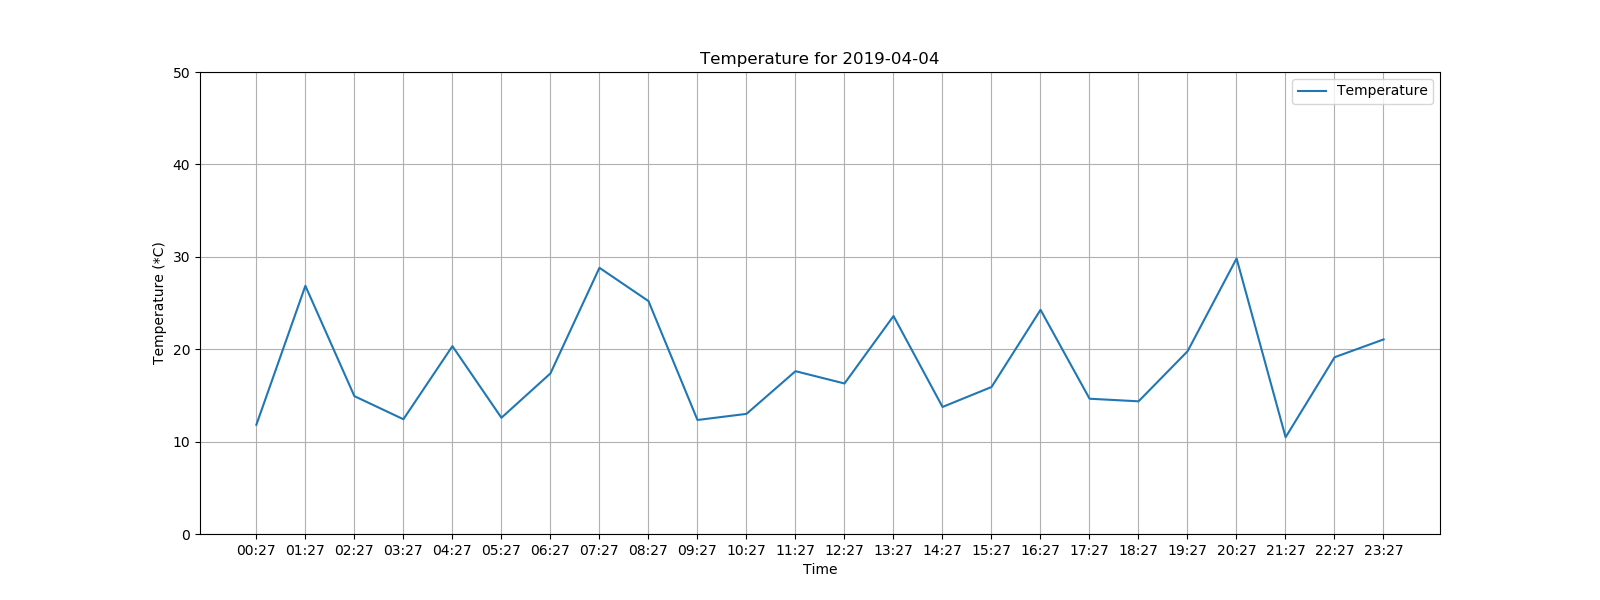
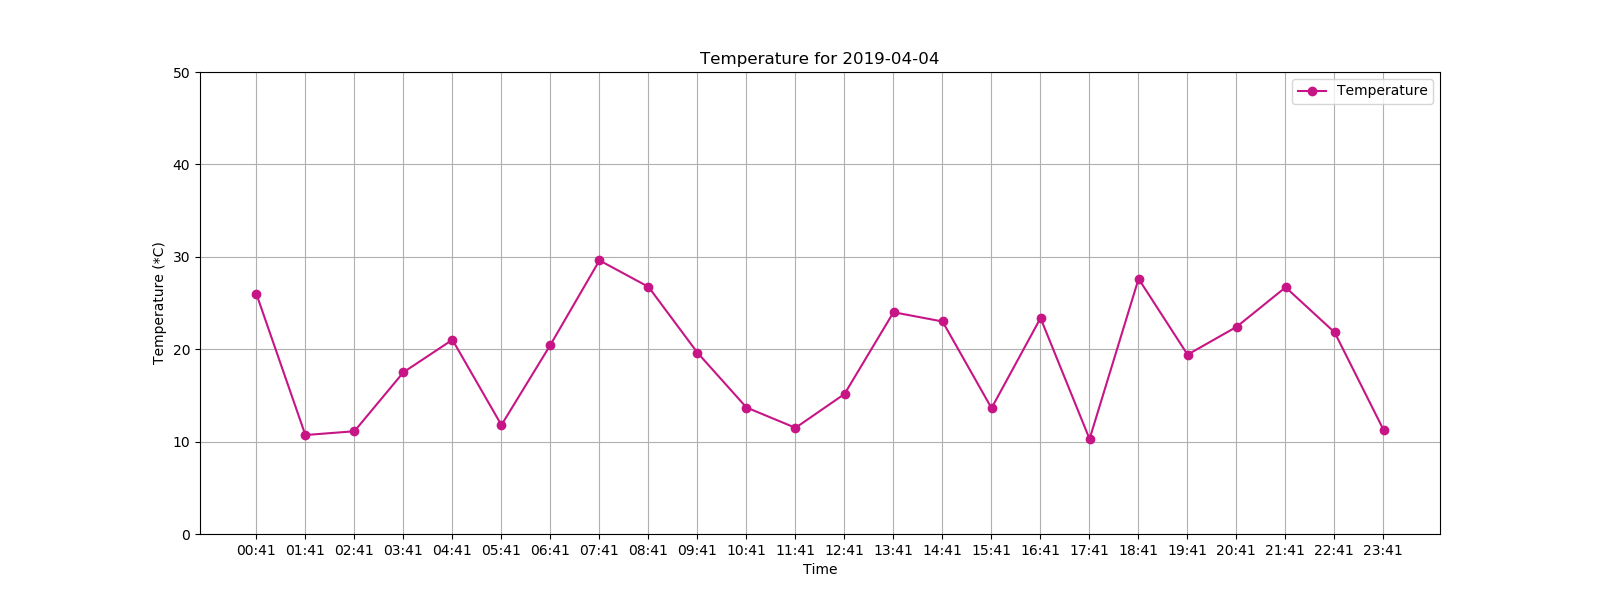
Changed color of graphs generated by matplotlib

diff --git a/TemperaturePlot.html b/TemperaturePlot.html
@@ -35,14 +35,14 @@
           
           
             
-              <div class="bk-root" id="cb4ab55a-9212-4bb6-9bc8-316de626f221" data-root-id="1002"></div>
+              <div class="bk-root" id="c73d7094-cba7-43d9-8dc5-96686244be1a" data-root-id="1002"></div>
             
           
         
       
       
         <script type="application/json" id="1323">
-          {"996fc7f4-16ec-45fe-8127-a12a7de72f39":{"roots":{"references":[{"attributes":{"base":24,"mantissas":[1,2,4,6,8,12],"max_interval":43200000.0,"min_interval":3600000.0,"num_minor_ticks":0},"id":"1050","type":"AdaptiveTicker"},{"attributes":{},"id":"1018","type":"BasicTicker"},{"attributes":{"months":[0,2,4,6,8,10]},"id":"1069","type":"MonthsTicker"},{"attributes":{"days":[1,2,3,4,5,6,7,8,9,10,11,12,13,14,15,16,17,18,19,20,21,22,23,24,25,26,27,28,29,30,31]},"id":"1051","type":"DaysTicker"},{"attributes":{"dimension":1,"plot":{"id":"1002","subtype":"Figure","type":"Plot"},"ticker":{"id":"1018","type":"BasicTicker"}},"id":"1021","type":"Grid"},{"attributes":{"months":[0,4,8]},"id":"1070","type":"MonthsTicker"},{"attributes":{"days":[1,4,7,10,13,16,19,22,25,28]},"id":"1052","type":"DaysTicker"},{"attributes":{"line_color":"#1f77b4","line_width":2,"x":{"field":"x"},"y":{"field":"y"}},"id":"1040","type":"Line"},{"attributes":{"days":[1,8,15,22]},"id":"1053","type":"DaysTicker"},{"attributes":{"months":[0,6]},"id":"1071","type":"MonthsTicker"},{"attributes":{},"id":"1072","type":"YearsTicker"},{"attributes":{"days":[1,15]},"id":"1054","type":"DaysTicker"},{"attributes":{"callback":null,"data":{"x":[1631882.823,5231882.823,8831882.823,12431882.823,16031882.823,19631882.823,23231882.823,26831882.823,30431882.823,34031882.823,37631882.823,41231882.823,44831882.823,48431882.823,52031882.823,55631882.823,59231882.823,62831882.823,66431882.823,70031882.823,73631882.823,77231882.823,80831882.823,84431882.823],"y":[11.82,26.86,14.92,12.42,20.33,12.58,17.38,28.81,25.21,12.34,13.0,17.62,16.29,23.59,13.75,15.91,24.26,14.64,14.36,19.78,29.82,10.47,19.13,21.06]},"selected":{"id":"1105","type":"Selection"},"selection_policy":{"id":"1104","type":"UnionRenderers"}},"id":"1039","type":"ColumnDataSource"},{"attributes":{"items":[{"id":"1074","type":"LegendItem"}],"plot":{"id":"1002","subtype":"Figure","type":"Plot"}},"id":"1073","type":"Legend"},{"attributes":{},"id":"1045","type":"DatetimeTickFormatter"},{"attributes":{},"id":"1022","type":"PanTool"},{"attributes":{"months":[0,1,2,3,4,5,6,7,8,9,10,11]},"id":"1055","type":"MonthsTicker"},{"attributes":{},"id":"1023","type":"WheelZoomTool"},{"attributes":{"months":[0,2,4,6,8,10]},"id":"1056","type":"MonthsTicker"},{"attributes":{"overlay":{"id":"1030","type":"BoxAnnotation"}},"id":"1024","type":"BoxZoomTool"},{"attributes":{"months":[0,4,8]},"id":"1057","type":"MonthsTicker"},{"attributes":{"below":[{"id":"1012","type":"DatetimeAxis"}],"left":[{"id":"1017","type":"LinearAxis"}],"plot_width":1200,"renderers":[{"id":"1012","type":"DatetimeAxis"},{"id":"1016","type":"Grid"},{"id":"1017","type":"LinearAxis"},{"id":"1021","type":"Grid"},{"id":"1030","type":"BoxAnnotation"},{"id":"1073","type":"Legend"},{"id":"1042","type":"GlyphRenderer"}],"title":{"id":"1001","type":"Title"},"toolbar":{"id":"1028","type":"Toolbar"},"x_range":{"id":"1004","type":"DataRange1d"},"x_scale":{"id":"1008","type":"LinearScale"},"y_range":{"id":"1006","type":"DataRange1d"},"y_scale":{"id":"1010","type":"LinearScale"}},"id":"1002","subtype":"Figure","type":"Plot"},{"attributes":{},"id":"1025","type":"SaveTool"},{"attributes":{"months":[0,6]},"id":"1058","type":"MonthsTicker"},{"attributes":{"plot":null,"text":"Temperature for 2019-04-04"},"id":"1001","type":"Title"},{"attributes":{"plot":{"id":"1002","subtype":"Figure","type":"Plot"},"ticker":{"id":"1013","type":"DatetimeTicker"}},"id":"1016","type":"Grid"},{"attributes":{},"id":"1026","type":"ResetTool"},{"attributes":{"desired_num_ticks":24,"tickers":[{"id":"1048","type":"AdaptiveTicker"},{"id":"1049","type":"AdaptiveTicker"},{"id":"1050","type":"AdaptiveTicker"},{"id":"1051","type":"DaysTicker"},{"id":"1052","type":"DaysTicker"},{"id":"1053","type":"DaysTicker"},{"id":"1054","type":"DaysTicker"},{"id":"1055","type":"MonthsTicker"},{"id":"1056","type":"MonthsTicker"},{"id":"1057","type":"MonthsTicker"},{"id":"1058","type":"MonthsTicker"},{"id":"1059","type":"YearsTicker"}]},"id":"1037","type":"DatetimeTicker"},{"attributes":{},"id":"1059","type":"YearsTicker"},{"attributes":{},"id":"1104","type":"UnionRenderers"},{"attributes":{},"id":"1027","type":"HelpTool"},{"attributes":{"mantissas":[1,2,5],"max_interval":500.0,"num_minor_ticks":0},"id":"1061","type":"AdaptiveTicker"},{"attributes":{},"id":"1105","type":"Selection"},{"attributes":{"active_drag":"auto","active_inspect":"auto","active_multi":null,"active_scroll":"auto","active_tap":"auto","tools":[{"id":"1022","type":"PanTool"},{"id":"1023","type":"WheelZoomTool"},{"id":"1024","type":"BoxZoomTool"},{"id":"1025","type":"SaveTool"},{"id":"1026","type":"ResetTool"},{"id":"1027","type":"HelpTool"}]},"id":"1028","type":"Toolbar"},{"attributes":{"callback":null},"id":"1004","type":"DataRange1d"},{"attributes":{"line_alpha":0.1,"line_color":"#1f77b4","line_width":2,"x":{"field":"x"},"y":{"field":"y"}},"id":"1041","type":"Line"},{"attributes":{"base":60,"mantissas":[1,2,5,10,15,20,30],"max_interval":1800000.0,"min_interval":1000.0,"num_minor_ticks":0},"id":"1062","type":"AdaptiveTicker"},{"attributes":{"label":{"value":"Temperature"},"renderers":[{"id":"1042","type":"GlyphRenderer"}]},"id":"1074","type":"LegendItem"},{"attributes":{"callback":null},"id":"1006","type":"DataRange1d"},{"attributes":{"bottom_units":"screen","fill_alpha":{"value":0.5},"fill_color":{"value":"lightgrey"},"left_units":"screen","level":"overlay","line_alpha":{"value":1.0},"line_color":{"value":"black"},"line_dash":[4,4],"line_width":{"value":2},"plot":null,"render_mode":"css","right_units":"screen","top_units":"screen"},"id":"1030","type":"BoxAnnotation"},{"attributes":{"base":24,"mantissas":[1,2,4,6,8,12],"max_interval":43200000.0,"min_interval":3600000.0,"num_minor_ticks":0},"id":"1063","type":"AdaptiveTicker"},{"attributes":{},"id":"1008","type":"LinearScale"},{"attributes":{"data_source":{"id":"1039","type":"ColumnDataSource"},"glyph":{"id":"1040","type":"Line"},"hover_glyph":null,"muted_glyph":null,"nonselection_glyph":{"id":"1041","type":"Line"},"selection_glyph":null,"view":{"id":"1043","type":"CDSView"}},"id":"1042","type":"GlyphRenderer"},{"attributes":{},"id":"1010","type":"LinearScale"},{"attributes":{"days":[1,2,3,4,5,6,7,8,9,10,11,12,13,14,15,16,17,18,19,20,21,22,23,24,25,26,27,28,29,30,31]},"id":"1064","type":"DaysTicker"},{"attributes":{"months":[0,1,2,3,4,5,6,7,8,9,10,11]},"id":"1068","type":"MonthsTicker"},{"attributes":{"source":{"id":"1039","type":"ColumnDataSource"}},"id":"1043","type":"CDSView"},{"attributes":{"axis_label":"Time","formatter":{"id":"1045","type":"DatetimeTickFormatter"},"plot":{"id":"1002","subtype":"Figure","type":"Plot"},"ticker":{"id":"1037","type":"DatetimeTicker"}},"id":"1012","type":"DatetimeAxis"},{"attributes":{"days":[1,4,7,10,13,16,19,22,25,28]},"id":"1065","type":"DaysTicker"},{"attributes":{"num_minor_ticks":5,"tickers":[{"id":"1061","type":"AdaptiveTicker"},{"id":"1062","type":"AdaptiveTicker"},{"id":"1063","type":"AdaptiveTicker"},{"id":"1064","type":"DaysTicker"},{"id":"1065","type":"DaysTicker"},{"id":"1066","type":"DaysTicker"},{"id":"1067","type":"DaysTicker"},{"id":"1068","type":"MonthsTicker"},{"id":"1069","type":"MonthsTicker"},{"id":"1070","type":"MonthsTicker"},{"id":"1071","type":"MonthsTicker"},{"id":"1072","type":"YearsTicker"}]},"id":"1013","type":"DatetimeTicker"},{"attributes":{"days":[1,8,15,22]},"id":"1066","type":"DaysTicker"},{"attributes":{"mantissas":[1,2,5],"max_interval":500.0,"num_minor_ticks":0},"id":"1048","type":"AdaptiveTicker"},{"attributes":{},"id":"1046","type":"BasicTickFormatter"},{"attributes":{"days":[1,15]},"id":"1067","type":"DaysTicker"},{"attributes":{"base":60,"mantissas":[1,2,5,10,15,20,30],"max_interval":1800000.0,"min_interval":1000.0,"num_minor_ticks":0},"id":"1049","type":"AdaptiveTicker"},{"attributes":{"axis_label":"Temperature (*C)","formatter":{"id":"1046","type":"BasicTickFormatter"},"plot":{"id":"1002","subtype":"Figure","type":"Plot"},"ticker":{"id":"1018","type":"BasicTicker"}},"id":"1017","type":"LinearAxis"}],"root_ids":["1002"]},"title":"Bokeh Application","version":"1.0.4"}}
+          {"90017d67-7eb4-46b7-b480-13339417af89":{"roots":{"references":[{"attributes":{},"id":"1025","type":"SaveTool"},{"attributes":{"months":[0,2,4,6,8,10]},"id":"1056","type":"MonthsTicker"},{"attributes":{"callback":null},"id":"1004","type":"DataRange1d"},{"attributes":{},"id":"1026","type":"ResetTool"},{"attributes":{"months":[0,4,8]},"id":"1057","type":"MonthsTicker"},{"attributes":{"callback":null},"id":"1006","type":"DataRange1d"},{"attributes":{},"id":"1027","type":"HelpTool"},{"attributes":{"months":[0,6]},"id":"1058","type":"MonthsTicker"},{"attributes":{"active_drag":"auto","active_inspect":"auto","active_multi":null,"active_scroll":"auto","active_tap":"auto","tools":[{"id":"1022","type":"PanTool"},{"id":"1023","type":"WheelZoomTool"},{"id":"1024","type":"BoxZoomTool"},{"id":"1025","type":"SaveTool"},{"id":"1026","type":"ResetTool"},{"id":"1027","type":"HelpTool"}]},"id":"1028","type":"Toolbar"},{"attributes":{},"id":"1008","type":"LinearScale"},{"attributes":{},"id":"1059","type":"YearsTicker"},{"attributes":{"line_alpha":0.1,"line_color":"#1f77b4","line_width":2,"x":{"field":"x"},"y":{"field":"y"}},"id":"1041","type":"Line"},{"attributes":{},"id":"1104","type":"UnionRenderers"},{"attributes":{"mantissas":[1,2,5],"max_interval":500.0,"num_minor_ticks":0},"id":"1060","type":"AdaptiveTicker"},{"attributes":{"bottom_units":"screen","fill_alpha":{"value":0.5},"fill_color":{"value":"lightgrey"},"left_units":"screen","level":"overlay","line_alpha":{"value":1.0},"line_color":{"value":"black"},"line_dash":[4,4],"line_width":{"value":2},"plot":null,"render_mode":"css","right_units":"screen","top_units":"screen"},"id":"1030","type":"BoxAnnotation"},{"attributes":{},"id":"1010","type":"LinearScale"},{"attributes":{"axis_label":"Time","formatter":{"id":"1045","type":"DatetimeTickFormatter"},"plot":{"id":"1002","subtype":"Figure","type":"Plot"},"ticker":{"id":"1037","type":"DatetimeTicker"}},"id":"1012","type":"DatetimeAxis"},{"attributes":{"base":60,"mantissas":[1,2,5,10,15,20,30],"max_interval":1800000.0,"min_interval":1000.0,"num_minor_ticks":0},"id":"1061","type":"AdaptiveTicker"},{"attributes":{"data_source":{"id":"1039","type":"ColumnDataSource"},"glyph":{"id":"1040","type":"Line"},"hover_glyph":null,"muted_glyph":null,"nonselection_glyph":{"id":"1041","type":"Line"},"selection_glyph":null,"view":{"id":"1043","type":"CDSView"}},"id":"1042","type":"GlyphRenderer"},{"attributes":{"num_minor_ticks":5,"tickers":[{"id":"1060","type":"AdaptiveTicker"},{"id":"1061","type":"AdaptiveTicker"},{"id":"1062","type":"AdaptiveTicker"},{"id":"1063","type":"DaysTicker"},{"id":"1064","type":"DaysTicker"},{"id":"1065","type":"DaysTicker"},{"id":"1066","type":"DaysTicker"},{"id":"1067","type":"MonthsTicker"},{"id":"1068","type":"MonthsTicker"},{"id":"1069","type":"MonthsTicker"},{"id":"1070","type":"MonthsTicker"},{"id":"1071","type":"YearsTicker"}]},"id":"1013","type":"DatetimeTicker"},{"attributes":{"base":24,"mantissas":[1,2,4,6,8,12],"max_interval":43200000.0,"min_interval":3600000.0,"num_minor_ticks":0},"id":"1062","type":"AdaptiveTicker"},{"attributes":{"source":{"id":"1039","type":"ColumnDataSource"}},"id":"1043","type":"CDSView"},{"attributes":{"label":{"value":"Temperature"},"renderers":[{"id":"1042","type":"GlyphRenderer"}]},"id":"1074","type":"LegendItem"},{"attributes":{"days":[1,2,3,4,5,6,7,8,9,10,11,12,13,14,15,16,17,18,19,20,21,22,23,24,25,26,27,28,29,30,31]},"id":"1063","type":"DaysTicker"},{"attributes":{},"id":"1045","type":"DatetimeTickFormatter"},{"attributes":{"plot":{"id":"1002","subtype":"Figure","type":"Plot"},"ticker":{"id":"1013","type":"DatetimeTicker"}},"id":"1016","type":"Grid"},{"attributes":{"days":[1,4,7,10,13,16,19,22,25,28]},"id":"1064","type":"DaysTicker"},{"attributes":{},"id":"1046","type":"BasicTickFormatter"},{"attributes":{"axis_label":"Temperature (*C)","formatter":{"id":"1046","type":"BasicTickFormatter"},"plot":{"id":"1002","subtype":"Figure","type":"Plot"},"ticker":{"id":"1018","type":"BasicTicker"}},"id":"1017","type":"LinearAxis"},{"attributes":{"days":[1,8,15,22]},"id":"1065","type":"DaysTicker"},{"attributes":{"mantissas":[1,2,5],"max_interval":500.0,"num_minor_ticks":0},"id":"1048","type":"AdaptiveTicker"},{"attributes":{},"id":"1018","type":"BasicTicker"},{"attributes":{"days":[1,15]},"id":"1066","type":"DaysTicker"},{"attributes":{"dimension":1,"plot":{"id":"1002","subtype":"Figure","type":"Plot"},"ticker":{"id":"1018","type":"BasicTicker"}},"id":"1021","type":"Grid"},{"attributes":{},"id":"1103","type":"Selection"},{"attributes":{"base":60,"mantissas":[1,2,5,10,15,20,30],"max_interval":1800000.0,"min_interval":1000.0,"num_minor_ticks":0},"id":"1049","type":"AdaptiveTicker"},{"attributes":{"months":[0,1,2,3,4,5,6,7,8,9,10,11]},"id":"1067","type":"MonthsTicker"},{"attributes":{"base":24,"mantissas":[1,2,4,6,8,12],"max_interval":43200000.0,"min_interval":3600000.0,"num_minor_ticks":0},"id":"1050","type":"AdaptiveTicker"},{"attributes":{"callback":null,"data":{"x":[2492385.131,6092385.131,9692385.131,13292385.131,16892385.131,20492385.131,24092385.131,27692385.131,31292385.131,34892385.131,38492385.131,42092385.131,45692385.131,49292385.131,52892385.131,56492385.131,60092385.131,63692385.131,67292385.131,70892385.131,74492385.131,78092385.131,81692385.131,85292385.131],"y":[25.99,10.71,11.12,17.5,21.02,11.79,20.47,29.61,26.75,19.62,13.69,11.49,15.15,24.0,23.0,13.62,23.37,10.28,27.62,19.41,22.42,26.7,21.82,11.25]},"selected":{"id":"1103","type":"Selection"},"selection_policy":{"id":"1104","type":"UnionRenderers"}},"id":"1039","type":"ColumnDataSource"},{"attributes":{"months":[0,2,4,6,8,10]},"id":"1068","type":"MonthsTicker"},{"attributes":{"below":[{"id":"1012","type":"DatetimeAxis"}],"left":[{"id":"1017","type":"LinearAxis"}],"plot_width":1200,"renderers":[{"id":"1012","type":"DatetimeAxis"},{"id":"1016","type":"Grid"},{"id":"1017","type":"LinearAxis"},{"id":"1021","type":"Grid"},{"id":"1030","type":"BoxAnnotation"},{"id":"1073","type":"Legend"},{"id":"1042","type":"GlyphRenderer"}],"title":{"id":"1001","type":"Title"},"toolbar":{"id":"1028","type":"Toolbar"},"x_range":{"id":"1004","type":"DataRange1d"},"x_scale":{"id":"1008","type":"LinearScale"},"y_range":{"id":"1006","type":"DataRange1d"},"y_scale":{"id":"1010","type":"LinearScale"}},"id":"1002","subtype":"Figure","type":"Plot"},{"attributes":{"plot":null,"text":"Temperature for 2019-04-04"},"id":"1001","type":"Title"},{"attributes":{"days":[1,2,3,4,5,6,7,8,9,10,11,12,13,14,15,16,17,18,19,20,21,22,23,24,25,26,27,28,29,30,31]},"id":"1051","type":"DaysTicker"},{"attributes":{"months":[0,4,8]},"id":"1069","type":"MonthsTicker"},{"attributes":{"desired_num_ticks":24,"tickers":[{"id":"1048","type":"AdaptiveTicker"},{"id":"1049","type":"AdaptiveTicker"},{"id":"1050","type":"AdaptiveTicker"},{"id":"1051","type":"DaysTicker"},{"id":"1052","type":"DaysTicker"},{"id":"1053","type":"DaysTicker"},{"id":"1054","type":"DaysTicker"},{"id":"1055","type":"MonthsTicker"},{"id":"1056","type":"MonthsTicker"},{"id":"1057","type":"MonthsTicker"},{"id":"1058","type":"MonthsTicker"},{"id":"1059","type":"YearsTicker"}]},"id":"1037","type":"DatetimeTicker"},{"attributes":{"days":[1,4,7,10,13,16,19,22,25,28]},"id":"1052","type":"DaysTicker"},{"attributes":{},"id":"1022","type":"PanTool"},{"attributes":{"months":[0,6]},"id":"1070","type":"MonthsTicker"},{"attributes":{"line_color":"#1f77b4","line_width":2,"x":{"field":"x"},"y":{"field":"y"}},"id":"1040","type":"Line"},{"attributes":{"days":[1,8,15,22]},"id":"1053","type":"DaysTicker"},{"attributes":{},"id":"1023","type":"WheelZoomTool"},{"attributes":{},"id":"1071","type":"YearsTicker"},{"attributes":{"days":[1,15]},"id":"1054","type":"DaysTicker"},{"attributes":{"items":[{"id":"1074","type":"LegendItem"}],"plot":{"id":"1002","subtype":"Figure","type":"Plot"}},"id":"1073","type":"Legend"},{"attributes":{"overlay":{"id":"1030","type":"BoxAnnotation"}},"id":"1024","type":"BoxZoomTool"},{"attributes":{"months":[0,1,2,3,4,5,6,7,8,9,10,11]},"id":"1055","type":"MonthsTicker"}],"root_ids":["1002"]},"title":"Bokeh Application","version":"1.0.4"}}
         </script>
         <script type="text/javascript">
           (function() {
@@ -52,7 +52,7 @@
                   function embed_document(root) {
                     
                   var docs_json = document.getElementById('1323').textContent;
-                  var render_items = [{"docid":"996fc7f4-16ec-45fe-8127-a12a7de72f39","roots":{"1002":"cb4ab55a-9212-4bb6-9bc8-316de626f221"}}];
+                  var render_items = [{"docid":"90017d67-7eb4-46b7-b480-13339417af89","roots":{"1002":"c73d7094-cba7-43d9-8dc5-96686244be1a"}}];
                   root.Bokeh.embed.embed_items(docs_json, render_items);
                 
                   }

diff --git a/HumidityPlot.html b/HumidityPlot.html
@@ -35,14 +35,14 @@
           
           
             
-              <div class="bk-root" id="bba81faf-3b0e-4b10-84f0-f88a549cfbe6" data-root-id="1731"></div>
+              <div class="bk-root" id="4542ab6e-2022-4160-a0fb-549f3254a920" data-root-id="1325"></div>
             
           
         
       
       
-        <script type="application/json" id="1812">
-          {"0e863c92-d1f7-4638-bc28-29c707729ff5":{"roots":{"references":[{"attributes":{"plot":null,"text":"Average humidity for 2019-04-02 to 2019-04-09"},"id":"1730","type":"Title"},{"attributes":{},"id":"1737","type":"CategoricalScale"},{"attributes":{"axis_label":"Date","formatter":{"id":"1758","type":"CategoricalTickFormatter"},"plot":{"id":"1731","subtype":"Figure","type":"Plot"},"ticker":{"id":"1742","type":"CategoricalTicker"}},"id":"1741","type":"CategoricalAxis"},{"attributes":{},"id":"1759","type":"BasicTickFormatter"},{"attributes":{"fill_alpha":{"value":0.1},"fill_color":{"value":"#1f77b4"},"line_alpha":{"value":0.1},"line_color":{"value":"#1f77b4"},"top":{"field":"top"},"width":{"value":0.9},"x":{"field":"x"}},"id":"1753","type":"VBar"},{"attributes":{"grid_line_color":{"value":null},"plot":{"id":"1731","subtype":"Figure","type":"Plot"},"ticker":{"id":"1742","type":"CategoricalTicker"}},"id":"1744","type":"Grid"},{"attributes":{"callback":null,"data":{"top":[55.72,58.31,54.92,56.56,54.77,55.27,58.1,56.89],"x":["2019-04-02","2019-04-03","2019-04-04","2019-04-05","2019-04-06","2019-04-07","2019-04-08","2019-04-09"]},"selected":{"id":"1762","type":"Selection"},"selection_policy":{"id":"1761","type":"UnionRenderers"}},"id":"1751","type":"ColumnDataSource"},{"attributes":{"dimension":1,"plot":{"id":"1731","subtype":"Figure","type":"Plot"},"ticker":{"id":"1746","type":"BasicTicker"}},"id":"1749","type":"Grid"},{"attributes":{"active_drag":"auto","active_inspect":"auto","active_multi":null,"active_scroll":"auto","active_tap":"auto"},"id":"1750","type":"Toolbar"},{"attributes":{"fill_color":{"value":"#1f77b4"},"line_color":{"value":"#1f77b4"},"top":{"field":"top"},"width":{"value":0.9},"x":{"field":"x"}},"id":"1752","type":"VBar"},{"attributes":{"source":{"id":"1751","type":"ColumnDataSource"}},"id":"1755","type":"CDSView"},{"attributes":{"callback":null,"end":80,"start":0},"id":"1735","type":"DataRange1d"},{"attributes":{},"id":"1739","type":"LinearScale"},{"attributes":{"below":[{"id":"1741","type":"CategoricalAxis"}],"left":[{"id":"1745","type":"LinearAxis"}],"plot_height":400,"renderers":[{"id":"1741","type":"CategoricalAxis"},{"id":"1744","type":"Grid"},{"id":"1745","type":"LinearAxis"},{"id":"1749","type":"Grid"},{"id":"1754","type":"GlyphRenderer"}],"title":{"id":"1730","type":"Title"},"toolbar":{"id":"1750","type":"Toolbar"},"toolbar_location":null,"x_range":{"id":"1733","type":"FactorRange"},"x_scale":{"id":"1737","type":"CategoricalScale"},"y_range":{"id":"1735","type":"DataRange1d"},"y_scale":{"id":"1739","type":"LinearScale"}},"id":"1731","subtype":"Figure","type":"Plot"},{"attributes":{"callback":null,"factors":["2019-04-02","2019-04-03","2019-04-04","2019-04-05","2019-04-06","2019-04-07","2019-04-08","2019-04-09"]},"id":"1733","type":"FactorRange"},{"attributes":{},"id":"1742","type":"CategoricalTicker"},{"attributes":{"axis_label":"Average humidity (%)","formatter":{"id":"1759","type":"BasicTickFormatter"},"plot":{"id":"1731","subtype":"Figure","type":"Plot"},"ticker":{"id":"1746","type":"BasicTicker"}},"id":"1745","type":"LinearAxis"},{"attributes":{},"id":"1758","type":"CategoricalTickFormatter"},{"attributes":{},"id":"1746","type":"BasicTicker"},{"attributes":{"data_source":{"id":"1751","type":"ColumnDataSource"},"glyph":{"id":"1752","type":"VBar"},"hover_glyph":null,"muted_glyph":null,"nonselection_glyph":{"id":"1753","type":"VBar"},"selection_glyph":null,"view":{"id":"1755","type":"CDSView"}},"id":"1754","type":"GlyphRenderer"},{"attributes":{},"id":"1762","type":"Selection"},{"attributes":{},"id":"1761","type":"UnionRenderers"}],"root_ids":["1731"]},"title":"Bokeh Application","version":"1.0.4"}}
+        <script type="application/json" id="1646">
+          {"c5534fa0-166a-417d-960c-0623ef226293":{"roots":{"references":[{"attributes":{"items":[{"id":"1397","type":"LegendItem"}],"plot":{"id":"1325","subtype":"Figure","type":"Plot"}},"id":"1396","type":"Legend"},{"attributes":{"days":[1,2,3,4,5,6,7,8,9,10,11,12,13,14,15,16,17,18,19,20,21,22,23,24,25,26,27,28,29,30,31]},"id":"1374","type":"DaysTicker"},{"attributes":{"days":[1,2,3,4,5,6,7,8,9,10,11,12,13,14,15,16,17,18,19,20,21,22,23,24,25,26,27,28,29,30,31]},"id":"1386","type":"DaysTicker"},{"attributes":{"label":{"value":"Humidity"},"renderers":[{"id":"1365","type":"GlyphRenderer"}]},"id":"1397","type":"LegendItem"},{"attributes":{"callback":null,"data":{"x":[2492385.131,6092385.131,9692385.131,13292385.131,16892385.131,20492385.131,24092385.131,27692385.131,31292385.131,34892385.131,38492385.131,42092385.131,45692385.131,49292385.131,52892385.131,56492385.131,60092385.131,63692385.131,67292385.131,70892385.131,74492385.131,78092385.131,81692385.131,85292385.131],"y":[62.1,53.53,42.05,42.65,64.36,69.82,47.19,59.33,57.42,50.79,68.64,69.91,54.95,50.79,49.87,65.12,56.23,68.5,43.54,55.95,59.78,47.44,43.73,52.29]},"selected":{"id":"1426","type":"Selection"},"selection_policy":{"id":"1427","type":"UnionRenderers"}},"id":"1362","type":"ColumnDataSource"},{"attributes":{"days":[1,4,7,10,13,16,19,22,25,28]},"id":"1387","type":"DaysTicker"},{"attributes":{},"id":"1345","type":"PanTool"},{"attributes":{"months":[0,1,2,3,4,5,6,7,8,9,10,11]},"id":"1390","type":"MonthsTicker"},{"attributes":{"days":[1,15]},"id":"1377","type":"DaysTicker"},{"attributes":{"line_alpha":0.1,"line_color":"#1f77b4","line_width":2,"x":{"field":"x"},"y":{"field":"y"}},"id":"1364","type":"Line"},{"attributes":{"base":24,"mantissas":[1,2,4,6,8,12],"max_interval":43200000.0,"min_interval":3600000.0,"num_minor_ticks":0},"id":"1385","type":"AdaptiveTicker"},{"attributes":{"desired_num_ticks":24,"tickers":[{"id":"1371","type":"AdaptiveTicker"},{"id":"1372","type":"AdaptiveTicker"},{"id":"1373","type":"AdaptiveTicker"},{"id":"1374","type":"DaysTicker"},{"id":"1375","type":"DaysTicker"},{"id":"1376","type":"DaysTicker"},{"id":"1377","type":"DaysTicker"},{"id":"1378","type":"MonthsTicker"},{"id":"1379","type":"MonthsTicker"},{"id":"1380","type":"MonthsTicker"},{"id":"1381","type":"MonthsTicker"},{"id":"1382","type":"YearsTicker"}]},"id":"1360","type":"DatetimeTicker"},{"attributes":{"base":60,"mantissas":[1,2,5,10,15,20,30],"max_interval":1800000.0,"min_interval":1000.0,"num_minor_ticks":0},"id":"1384","type":"AdaptiveTicker"},{"attributes":{},"id":"1426","type":"Selection"},{"attributes":{"mantissas":[1,2,5],"max_interval":500.0,"num_minor_ticks":0},"id":"1371","type":"AdaptiveTicker"},{"attributes":{},"id":"1346","type":"WheelZoomTool"},{"attributes":{},"id":"1349","type":"ResetTool"},{"attributes":{},"id":"1382","type":"YearsTicker"},{"attributes":{"active_drag":"auto","active_inspect":"auto","active_multi":null,"active_scroll":"auto","active_tap":"auto","tools":[{"id":"1345","type":"PanTool"},{"id":"1346","type":"WheelZoomTool"},{"id":"1347","type":"BoxZoomTool"},{"id":"1348","type":"SaveTool"},{"id":"1349","type":"ResetTool"},{"id":"1350","type":"HelpTool"}]},"id":"1351","type":"Toolbar"},{"attributes":{},"id":"1427","type":"UnionRenderers"},{"attributes":{"mantissas":[1,2,5],"max_interval":500.0,"num_minor_ticks":0},"id":"1383","type":"AdaptiveTicker"},{"attributes":{"plot":null,"text":"Humidity for 2019-04-04"},"id":"1324","type":"Title"},{"attributes":{"below":[{"id":"1335","type":"DatetimeAxis"}],"left":[{"id":"1340","type":"LinearAxis"}],"plot_width":1200,"renderers":[{"id":"1335","type":"DatetimeAxis"},{"id":"1339","type":"Grid"},{"id":"1340","type":"LinearAxis"},{"id":"1344","type":"Grid"},{"id":"1353","type":"BoxAnnotation"},{"id":"1396","type":"Legend"},{"id":"1365","type":"GlyphRenderer"}],"title":{"id":"1324","type":"Title"},"toolbar":{"id":"1351","type":"Toolbar"},"x_range":{"id":"1327","type":"DataRange1d"},"x_scale":{"id":"1331","type":"LinearScale"},"y_range":{"id":"1329","type":"DataRange1d"},"y_scale":{"id":"1333","type":"LinearScale"}},"id":"1325","subtype":"Figure","type":"Plot"},{"attributes":{},"id":"1350","type":"HelpTool"},{"attributes":{},"id":"1394","type":"YearsTicker"},{"attributes":{},"id":"1331","type":"LinearScale"},{"attributes":{"line_color":"#1f77b4","line_width":2,"x":{"field":"x"},"y":{"field":"y"}},"id":"1363","type":"Line"},{"attributes":{},"id":"1348","type":"SaveTool"},{"attributes":{"months":[0,6]},"id":"1381","type":"MonthsTicker"},{"attributes":{"base":60,"mantissas":[1,2,5,10,15,20,30],"max_interval":1800000.0,"min_interval":1000.0,"num_minor_ticks":0},"id":"1372","type":"AdaptiveTicker"},{"attributes":{},"id":"1333","type":"LinearScale"},{"attributes":{"months":[0,4,8]},"id":"1380","type":"MonthsTicker"},{"attributes":{"overlay":{"id":"1353","type":"BoxAnnotation"}},"id":"1347","type":"BoxZoomTool"},{"attributes":{"axis_label":"Time","formatter":{"id":"1368","type":"DatetimeTickFormatter"},"plot":{"id":"1325","subtype":"Figure","type":"Plot"},"ticker":{"id":"1360","type":"DatetimeTicker"}},"id":"1335","type":"DatetimeAxis"},{"attributes":{"months":[0,2,4,6,8,10]},"id":"1379","type":"MonthsTicker"},{"attributes":{"num_minor_ticks":5,"tickers":[{"id":"1383","type":"AdaptiveTicker"},{"id":"1384","type":"AdaptiveTicker"},{"id":"1385","type":"AdaptiveTicker"},{"id":"1386","type":"DaysTicker"},{"id":"1387","type":"DaysTicker"},{"id":"1388","type":"DaysTicker"},{"id":"1389","type":"DaysTicker"},{"id":"1390","type":"MonthsTicker"},{"id":"1391","type":"MonthsTicker"},{"id":"1392","type":"MonthsTicker"},{"id":"1393","type":"MonthsTicker"},{"id":"1394","type":"YearsTicker"}]},"id":"1336","type":"DatetimeTicker"},{"attributes":{"months":[0,1,2,3,4,5,6,7,8,9,10,11]},"id":"1378","type":"MonthsTicker"},{"attributes":{"months":[0,2,4,6,8,10]},"id":"1391","type":"MonthsTicker"},{"attributes":{},"id":"1368","type":"DatetimeTickFormatter"},{"attributes":{"dimension":1,"plot":{"id":"1325","subtype":"Figure","type":"Plot"},"ticker":{"id":"1341","type":"BasicTicker"}},"id":"1344","type":"Grid"},{"attributes":{"days":[1,8,15,22]},"id":"1388","type":"DaysTicker"},{"attributes":{"source":{"id":"1362","type":"ColumnDataSource"}},"id":"1366","type":"CDSView"},{"attributes":{"plot":{"id":"1325","subtype":"Figure","type":"Plot"},"ticker":{"id":"1336","type":"DatetimeTicker"}},"id":"1339","type":"Grid"},{"attributes":{"days":[1,15]},"id":"1389","type":"DaysTicker"},{"attributes":{"data_source":{"id":"1362","type":"ColumnDataSource"},"glyph":{"id":"1363","type":"Line"},"hover_glyph":null,"muted_glyph":null,"nonselection_glyph":{"id":"1364","type":"Line"},"selection_glyph":null,"view":{"id":"1366","type":"CDSView"}},"id":"1365","type":"GlyphRenderer"},{"attributes":{"days":[1,8,15,22]},"id":"1376","type":"DaysTicker"},{"attributes":{"days":[1,4,7,10,13,16,19,22,25,28]},"id":"1375","type":"DaysTicker"},{"attributes":{"callback":null},"id":"1327","type":"DataRange1d"},{"attributes":{"callback":null},"id":"1329","type":"DataRange1d"},{"attributes":{"bottom_units":"screen","fill_alpha":{"value":0.5},"fill_color":{"value":"lightgrey"},"left_units":"screen","level":"overlay","line_alpha":{"value":1.0},"line_color":{"value":"black"},"line_dash":[4,4],"line_width":{"value":2},"plot":null,"render_mode":"css","right_units":"screen","top_units":"screen"},"id":"1353","type":"BoxAnnotation"},{"attributes":{"months":[0,4,8]},"id":"1392","type":"MonthsTicker"},{"attributes":{},"id":"1341","type":"BasicTicker"},{"attributes":{"months":[0,6]},"id":"1393","type":"MonthsTicker"},{"attributes":{},"id":"1369","type":"BasicTickFormatter"},{"attributes":{"base":24,"mantissas":[1,2,4,6,8,12],"max_interval":43200000.0,"min_interval":3600000.0,"num_minor_ticks":0},"id":"1373","type":"AdaptiveTicker"},{"attributes":{"axis_label":"Humidity (%)","formatter":{"id":"1369","type":"BasicTickFormatter"},"plot":{"id":"1325","subtype":"Figure","type":"Plot"},"ticker":{"id":"1341","type":"BasicTicker"}},"id":"1340","type":"LinearAxis"}],"root_ids":["1325"]},"title":"Bokeh Application","version":"1.0.4"}}
         </script>
         <script type="text/javascript">
           (function() {
@@ -51,8 +51,8 @@
                 (function(root) {
                   function embed_document(root) {
                     
-                  var docs_json = document.getElementById('1812').textContent;
-                  var render_items = [{"docid":"0e863c92-d1f7-4638-bc28-29c707729ff5","roots":{"1731":"bba81faf-3b0e-4b10-84f0-f88a549cfbe6"}}];
+                  var docs_json = document.getElementById('1646').textContent;
+                  var render_items = [{"docid":"c5534fa0-166a-417d-960c-0623ef226293","roots":{"1325":"4542ab6e-2022-4160-a0fb-549f3254a920"}}];
                   root.Bokeh.embed.embed_items(docs_json, render_items);
                 
                   }

diff --git a/analytics.py b/analytics.py
@@ -7,6 +7,7 @@ import logging
 
 import matplotlib.pyplot as plt
 import matplotlib.axes
+import seaborn as sns
 import numpy as np
 import pandas as pd
 
@@ -16,7 +17,7 @@ import pandas as pd
 logging.basicConfig(level = logging.DEBUG)
 
 class Analytics:
-    def __init__(self, databaseName = 'fakeData.db'):
+    def __init__(self, databaseName = 'VirtualSenseHat.db'):
         self.databaseName = databaseName
         self.database = Database(self.databaseName) 
         
@@ -98,7 +99,7 @@ class Analytics:
  
         # plot
         figure, axes = plt.subplots(figsize=(16,6))
-        axes.plot('time', value, data=df)
+        axes.plot('time', value, data=df, marker='o', color='mediumvioletred')
         plt.title("{} for {}".format(value, self.dataDate.strftime(DATE_FORMAT)))
         plt.xlabel("Time")
         plt.ylabel('{} ({})'.format(value, unit))
@@ -124,7 +125,7 @@ class Analytics:
  
         # plot
         figure, axes = plt.subplots(figsize=(16,6))
-        axes.bar('date', value, data=df)
+        axes.bar('date', value, data=df, color='mediumvioletred')
         plt.title("{} for {}".format(value, self.dataDate.strftime(DATE_FORMAT)))
         plt.xlabel('Date')
         plt.ylabel('{} ({})'.format(value, unit))
